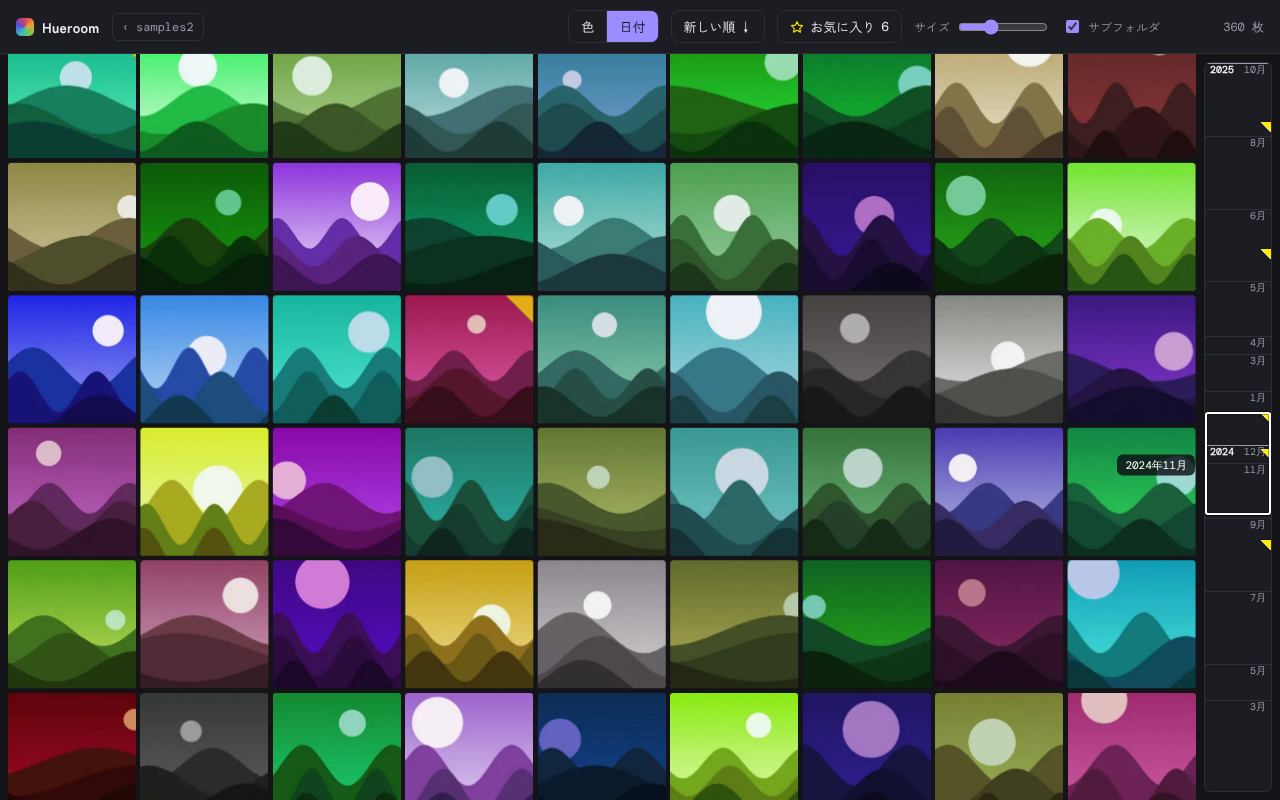
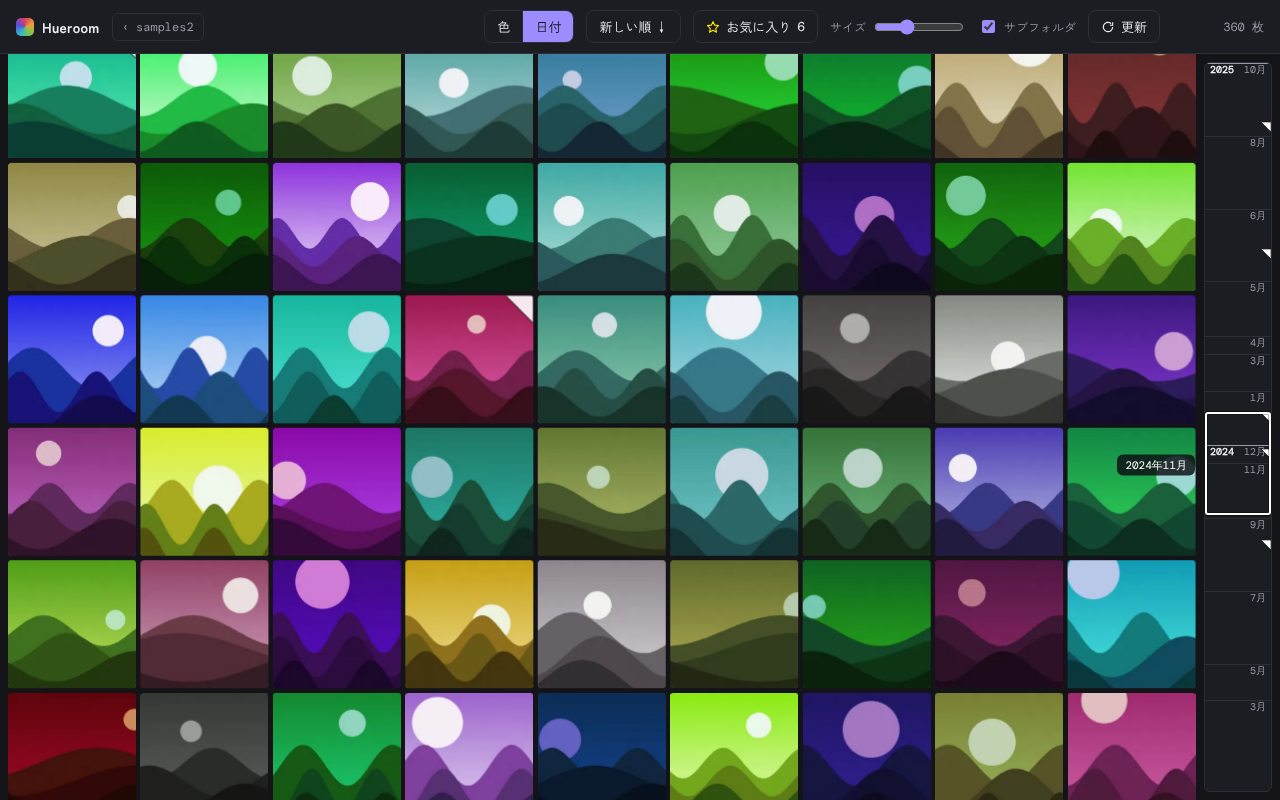
「更新」ボタンで追加した画像を反映、お気に入りの角タグを白（半透明）にする
- 更新: フォルダを読み直し、新しい画像と前回失敗した画像だけを解析。増減を数秒表示
- Safari / Firefox ではフォルダ選択をもう一度開く
- 角タグ・バーの三角を白（透明度 90%）に、濃い縁を付ける

Changed region(s): [[0.4062, 0.0, 0.8438, 0.0625], [0.875, 0.0312, 0.9062, 0.0625], [0.4062, 0.375, 0.4375, 0.4062]]

diff --git a/src/ui/useGallery.ts b/src/ui/useGallery.ts
@@ -1,5 +1,6 @@
 import { useCallback, useEffect, useMemo, useRef, useState } from 'react';
 import { createAnalysisCache } from '../core/cache/analysisCache';
+import { diffKeys, refreshNotice } from '../core/diff';
 import { imageKey } from '../core/keys';
 import { analyzeImages } from '../core/pipeline/analyzer';
 import { createExtractor, type Extractor } from '../core/pipeline/extractor';
@@ -25,6 +26,11 @@ export function useGallery(adapter: FolderAdapter, recursive: boolean) {
   const [restore, setRestore] = useState<RestoreResult>({ status: 'none' });
   const [error, setError] = useState<string | null>(null);
   const [tick, setTick] = useState(0);
+  const [reloadKey, setReloadKey] = useState(0);
+  const [notice, setNotice] = useState<string | null>(null);
+  // true のとき、次の読み込みは「更新」（いまの一覧を残したまま、差分だけ解析する）
+  const softRef = useRef(false);
+  const refsRef = useRef<ImageFileRef[]>([]);
   // null は「解析に失敗した」印
   const results = useRef(new Map<string, Analysis | null>());
 
@@ -41,22 +47,29 @@ export function useGallery(adapter: FolderAdapter, recursive: boolean) {
     };
   }, [adapter]);
 
-  // フォルダ（またはサブフォルダ設定）が変わったら、列挙して解析する
+  // フォルダ・サブフォルダ設定が変わったとき、または「更新」のたびに、列挙して解析する
   useEffect(() => {
     if (!folder) return;
     const ctrl = new AbortController();
     const { signal } = ctrl;
-    results.current = new Map();
-    setRefs([]);
+    const soft = softRef.current;
+    softRef.current = false;
+    if (!soft) {
+      results.current = new Map();
+      refsRef.current = [];
+      setRefs([]);
+    }
     setError(null);
     setProgress({ done: 0, total: 0 });
     setPhase('listing');
 
     let timer: ReturnType<typeof setTimeout> | undefined;
     let total = 0;
+    let done = 0;
+    let result: string | null = null;
     const flush = () => {
       timer = undefined;
-      setProgress({ done: results.current.size, total });
+      setProgress({ done, total });
       setTick((t) => t + 1);
     };
 
@@ -64,19 +77,26 @@ export function useGallery(adapter: FolderAdapter, recursive: boolean) {
       const list: ImageFileRef[] = [];
       for await (const ref of adapter.listImages(folder, { recursive, signal })) {
         list.push(ref);
-        if (list.length % 200 === 0) setRefs([...list]);
+        // 更新のときは、一覧が途中で欠けて見えないよう、最後にまとめて差し替える
+        if (!soft && list.length % 200 === 0) setRefs([...list]);
       }
       if (signal.aborted) return;
-      total = list.length;
+      if (soft) result = refreshNotice(diffKeys(refsRef.current.map(imageKey), list.map(imageKey)));
+      refsRef.current = list;
       setRefs(list);
+
+      // 解析済みの画像は飛ばし、新しい画像と、前回失敗した画像だけを解析する
+      const todo = list.filter((r) => !results.current.get(imageKey(r)));
+      total = todo.length;
       setPhase('analyzing');
       setProgress({ done: 0, total });
       await analyzeImages(
-        list,
+        todo,
         { cache, extractor: getExtractor() },
         {
           onResult: (_ref, key, analysis) => {
             results.current.set(key, analysis);
+            done++;
             timer ??= setTimeout(flush, FLUSH_MS);
           },
         },
@@ -86,6 +106,8 @@ export function useGallery(adapter: FolderAdapter, recursive: boolean) {
       clearTimeout(timer);
       flush();
       setPhase('done');
+      // 更新の結果は、解析まで終わってから数秒だけ出す
+      if (result !== null) setNotice(result);
     })().catch((e) => {
       if (!signal.aborted) {
         setError(e instanceof Error ? e.message : String(e));
@@ -97,7 +119,14 @@ export function useGallery(adapter: FolderAdapter, recursive: boolean) {
       ctrl.abort();
       clearTimeout(timer);
     };
-  }, [adapter, folder, recursive]);
+  }, [adapter, folder, recursive, reloadKey]);
+
+  // 更新の結果の表示は数秒で消す
+  useEffect(() => {
+    if (notice === null) return;
+    const t = setTimeout(() => setNotice(null), 4000);
+    return () => clearTimeout(t);
+  }, [notice]);
 
   const items = useMemo<GalleryItem[]>(
     () =>
@@ -143,17 +172,42 @@ export function useGallery(adapter: FolderAdapter, recursive: boolean) {
     }
   }, [restore]);
 
+  /**
+   * フォルダを読み直して、新しい画像を追加する（消えた画像は一覧から外す）。
+   * フォルダを覚えられない環境（Safari / Firefox）は、選んだ時点のファイル一覧しか持てないので、
+   * フォルダの選択をもう一度開く。同じフォルダを選べば、新しい画像だけが解析される。
+   */
+  const refresh = useCallback(async () => {
+    if (!folder || phase === 'listing' || phase === 'analyzing') return;
+    if (!adapter.capabilities.persistent) {
+      try {
+        const f = await adapter.pickFolder();
+        if (f) {
+          softRef.current = true;
+          setFolder(f);
+        }
+      } catch (e) {
+        setError(e instanceof Error ? e.message : String(e));
+      }
+      return;
+    }
+    softRef.current = true;
+    setReloadKey((k) => k + 1);
+  }, [adapter, folder, phase]);
+
   /** 最初の画面（フォルダ選択）に戻る。いま開いているフォルダは、ボタンからすぐ開き直せる */
   const close = useCallback(() => {
     if (!folder) return;
     const current = folder;
     setRestore({ status: 'needs-permission', folderName: current.name, request: async () => current });
     setFolder(null);
+    refsRef.current = [];
+    setNotice(null);
     setRefs([]);
     setPhase('idle');
     setProgress({ done: 0, total: 0 });
     setError(null);
   }, [folder]);
 
-  return { folder, items, phase, progress, restore, error, pick, reopen, close };
+  return { folder, items, phase, progress, restore, error, notice, pick, reopen, close, refresh };
 }

diff --git a/src/ui/styles.css b/src/ui/styles.css
@@ -81,7 +81,9 @@ button:focus-visible, input:focus-visible { outline: 2px solid var(--accent); ou
 .btn.primary:hover { filter: brightness(1.08); }
 .btn svg, .fav-btn svg { width: 14px; height: 14px; fill: none; stroke: currentColor; stroke-width: 2; stroke-linejoin: round; }
 .btn[aria-pressed='true'] svg { fill: currentColor; }
-.btn svg { color: var(--gold); filter: drop-shadow(0 0 0.6px rgba(0, 0, 0, 0.7)); }
+.fav-filter svg { color: var(--gold); filter: drop-shadow(0 0 0.6px rgba(0, 0, 0, 0.7)); }
+.btn:disabled { opacity: 0.45; cursor: default; }
+.btn:disabled:hover { background: transparent; }
 .fav-filter[aria-pressed='true'] { background: var(--gold); border-color: var(--gold); color: var(--gold-ink); }
 .fav-filter[aria-pressed='true'] svg { color: var(--gold-ink); }
 .fav-btn svg { width: 18px; height: 18px; stroke: var(--gold); fill: none; }
@@ -95,6 +97,7 @@ button:focus-visible, input:focus-visible { outline: 2px solid var(--accent); ou
 .zoom input { width: 90px; accent-color: var(--accent); }
 .check input { accent-color: var(--accent); }
 .status { font-size: 12px; color: var(--muted); min-width: 92px; text-align: right; }
+.notice { color: var(--fg); font-weight: 700; }
 .progress { position: absolute; left: 0; right: 0; bottom: -1px; height: 2px; background: transparent; }
 .progress div { height: 100%; background: var(--accent); transition: width 0.3s; }
 
@@ -114,7 +117,7 @@ button:focus-visible, input:focus-visible { outline: 2px solid var(--accent); ou
   font-size: 10px; background: linear-gradient(transparent, rgba(0, 0, 0, 0.6)); opacity: 0; transition: opacity 0.15s;
   overflow: hidden; text-overflow: ellipsis; white-space: nowrap; text-align: left;
 }
-.fav-tag { position: absolute; top: 0; right: 0; width: 28px; height: 28px; pointer-events: none; opacity: 0.7; fill: var(--gold); stroke: rgba(0, 0, 0, 0.3); stroke-width: 1; }
+.fav-tag { position: absolute; top: 0; right: 0; width: 28px; height: 28px; pointer-events: none; opacity: 0.9; fill: #fff; stroke: rgba(0, 0, 0, 0.55); stroke-width: 1.5; }
 .tile:hover .tile-name, .tile:focus-visible .tile-name { opacity: 1; }
 .empty { position: absolute; inset: 0; display: grid; place-items: center; padding: 24px; margin: 0; text-align: center; color: var(--muted); }
 
@@ -133,7 +136,7 @@ button:focus-visible, input:focus-visible { outline: 2px solid var(--accent); ou
 .tick-year { width: 28px; flex: none; }
 .tick-month { width: 24px; flex: none; text-align: right; white-space: nowrap; color: var(--muted); font-weight: 400; }
 .fav-marks { position: absolute; inset: 0; pointer-events: none; overflow: hidden; border-radius: 5px; }
-.fav-mark { position: absolute; right: 0; width: 10px; height: 10px; fill: var(--gold); stroke: #fff; stroke-width: 1.2; stroke-linejoin: round; paint-order: stroke; filter: drop-shadow(0 0 1px rgba(0, 0, 0, 0.6)); }
+.fav-mark { position: absolute; right: 0; width: 10px; height: 10px; fill: #fff; stroke: rgba(0, 0, 0, 0.6); stroke-width: 1; stroke-linejoin: round; }
 .navbar-view {
   position: absolute; left: 0; right: 0; top: 0; border: 2px solid #fff; border-radius: 3px;
   box-shadow: 0 0 0 1px rgba(0, 0, 0, 0.55), inset 0 0 0 1px rgba(0, 0, 0, 0.3); pointer-events: none;

diff --git a/src/ui/Toolbar.tsx b/src/ui/Toolbar.tsx
@@ -21,6 +21,12 @@ interface Props {
   total: number;
   phase: Phase;
   progress: { done: number; total: number };
+  /** 更新の結果（数秒だけ出す） */
+  notice: string | null;
+  /** フォルダを読み直して、新しい画像を追加する */
+  onRefresh(): void;
+  /** true のとき、更新はフォルダの選択をもう一度開く（フォルダを覚えられないブラウザ） */
+  refreshReopensPicker: boolean;
 }
 
 const MODES: [SortMode, string][] = [
@@ -97,7 +103,25 @@ export function Toolbar(p: Props) {
         サブフォルダ
       </label>
 
+      <button
+        type="button"
+        className="btn"
+        onClick={p.onRefresh}
+        disabled={p.phase === 'listing' || p.phase === 'analyzing'}
+        title={
+          p.refreshReopensPicker
+            ? 'フォルダの選択をもう一度開きます。同じフォルダを選ぶと、新しい画像だけが追加されます'
+            : 'フォルダを読み直して、新しい画像を追加します'
+        }
+      >
+        <svg viewBox="0 0 24 24" aria-hidden="true">
+          <path d="M20 12a8 8 0 1 1-2.6-5.9M20 4v5h-5" />
+        </svg>
+        更新
+      </button>
+
       <div className="status" aria-live="polite">
+        {p.notice !== null && p.phase === 'done' && <span className="notice">{p.notice}</span>}
         {p.phase === 'listing' && '読み込み中…'}
         {analyzing && (
           <>
@@ -105,7 +129,7 @@ export function Toolbar(p: Props) {
             <span className="num">{p.progress.total.toLocaleString()}</span>
           </>
         )}
-        {p.phase === 'done' && (
+        {p.phase === 'done' && p.notice === null && (
           <span className="num">
             {p.shown === p.total ? `${p.total.toLocaleString()} 枚` : `${p.shown.toLocaleString()} / ${p.total.toLocaleString()} 枚`}
           </span>

diff --git a/src/ui/App.tsx b/src/ui/App.tsx
@@ -23,7 +23,7 @@ export function App() {
   const [onlyFavorites, setOnlyFavorites] = useState(false);
   const [openKey, setOpenKey] = useState<string | null>(null);
 
-  const { folder, items, phase, progress, restore, error, pick, reopen, close: closeFolder } = useGallery(adapter, recursive);
+  const { folder, items, phase, progress, restore, error, notice, pick, reopen, close: closeFolder, refresh } = useGallery(adapter, recursive);
   const scrollerRef = useRef<HTMLDivElement>(null);
 
   // お気に入り（IndexedDB）
@@ -59,7 +59,7 @@ export function App() {
   // 並び順・絞り込みを変えたら先頭に戻る
   useEffect(() => {
     scrollerRef.current?.scrollTo({ top: 0 });
-  }, [mode, direction, onlyFavorites, folder]);
+  }, [mode, direction, onlyFavorites]);
 
   const openIndex = openKey === null ? -1 : displayed.findIndex((x) => x.key === openKey);
   const openItem = openIndex >= 0 ? displayed[openIndex] : undefined;
@@ -98,6 +98,9 @@ export function App() {
         total={items.length}
         phase={phase}
         progress={progress}
+        notice={notice}
+        onRefresh={refresh}
+        refreshReopensPicker={!adapter.capabilities.persistent}
       />
       {folder ? (
         <div className="main">

diff --git a/src/core/diff.test.ts b/src/core/diff.test.ts
@@ -1,0 +1,24 @@
+import { describe, expect, it } from 'vitest';
+import { diffKeys, refreshNotice } from './diff';
+
+describe('diffKeys', () => {
+  it('追加と削除を数える', () => {
+    expect(diffKeys(['a', 'b', 'c'], ['b', 'c', 'd', 'e'])).toEqual({ added: 2, removed: 1 });
+  });
+  it('同じなら 0', () => {
+    expect(diffKeys(['a'], ['a'])).toEqual({ added: 0, removed: 0 });
+    expect(diffKeys([], [])).toEqual({ added: 0, removed: 0 });
+  });
+  it('重複したキーは 1 つとして数える', () => {
+    expect(diffKeys(['a', 'a'], ['a', 'b', 'b'])).toEqual({ added: 1, removed: 0 });
+  });
+});
+
+describe('refreshNotice', () => {
+  it('増減に合わせた文言にする', () => {
+    expect(refreshNotice({ added: 0, removed: 0 })).toBe('変更はありません');
+    expect(refreshNotice({ added: 3, removed: 0 })).toBe('3 枚追加');
+    expect(refreshNotice({ added: 0, removed: 2 })).toBe('2 枚削除');
+    expect(refreshNotice({ added: 1200, removed: 4 })).toBe('1,200 枚追加・4 枚削除');
+  });
+});

diff --git a/src/core/diff.ts b/src/core/diff.ts
@@ -1,0 +1,19 @@
+/** フォルダを読み直したときの、画像の増減を数える */
+export function diffKeys(prev: Iterable<string>, next: Iterable<string>): { added: number; removed: number } {
+  const a = new Set(prev);
+  const b = new Set(next);
+  let added = 0;
+  let removed = 0;
+  for (const k of b) if (!a.has(k)) added++;
+  for (const k of a) if (!b.has(k)) removed++;
+  return { added, removed };
+}
+
+/** 読み直した結果をユーザーに伝える文言 */
+export function refreshNotice({ added, removed }: { added: number; removed: number }): string {
+  if (added === 0 && removed === 0) return '変更はありません';
+  const parts: string[] = [];
+  if (added > 0) parts.push(`${added.toLocaleString()} 枚追加`);
+  if (removed > 0) parts.push(`${removed.toLocaleString()} 枚削除`);
+  return parts.join('・');
+}

diff --git a/README.md b/README.md
@@ -32,7 +32,8 @@ Node.js 20 以上を想定しています。
 3. 並び順は「色」と「日付」を切り替えます。日付は撮影日時（EXIF）の順で、「新しい順 / 古い順」を切り替えられます。
 4. 右端のバーをタップ／ドラッグすると、その位置へジャンプします。色モードでは**カラーバー**、日付モードでは**日付タイムライン**（年・月の目盛り）です。タイムラインの目盛りの間隔は、スクロール位置と同じ縮尺なので、写真の多い月ほど間隔が広くなります。
 5. 画像をクリックすると拡大表示します（← → で前後、Esc で閉じる）。**お気に入りは拡大表示の星のボタン（または F キー）で登録・解除**します。
-6. お気に入りの画像は、サムネイルの右上の角が金色の三角で塗られます。右端のバーにも、同じ三角が位置を示します。ツールバーの「お気に入り」で、お気に入りだけに絞り込めます。
+6. お気に入りの画像は、サムネイルの右上の角が白い三角（半透明）で塗られます。右端のバーにも、同じ三角が位置を示します。ツールバーの星のボタンで、お気に入りだけに絞り込めます。
+7. フォルダに画像を追加・削除したあとは、ツールバーの **「更新」** を押します。フォルダを読み直して、新しい画像だけを解析します（解析済みの画像はそのまま、スクロール位置も保たれます）。結果は「3 枚追加・2 枚削除」のように数秒だけ表示されます。Safari / Firefox では、フォルダを覚えられないため、フォルダの選択がもう一度開きます。同じフォルダを選ぶと、同じ動きになります。
 
 ### ブラウザごとの違い
 
